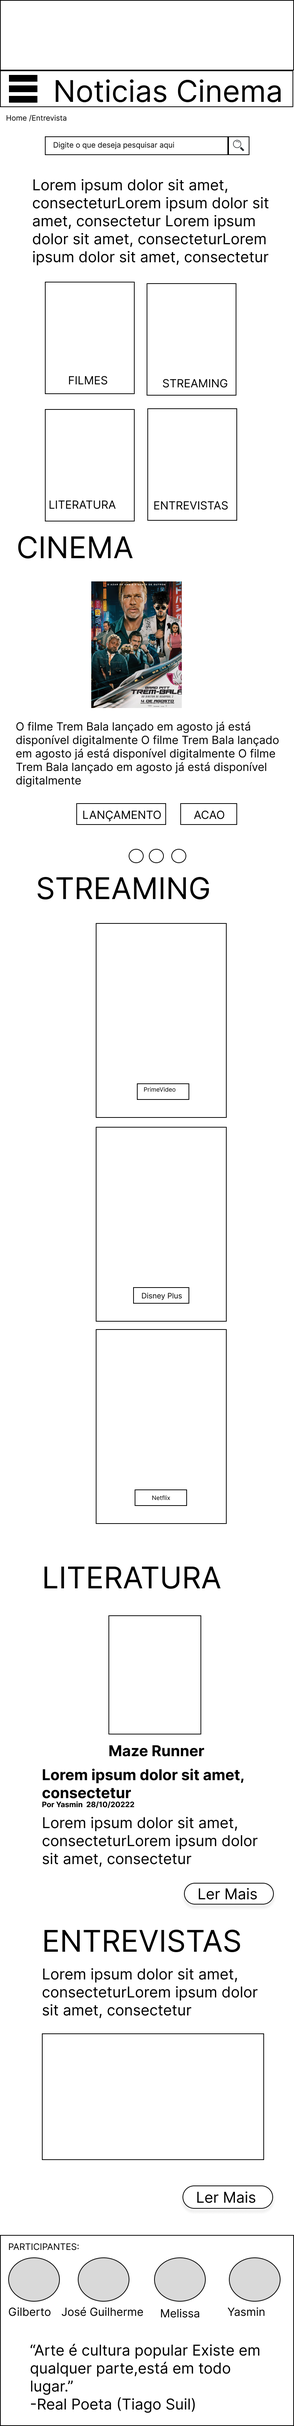
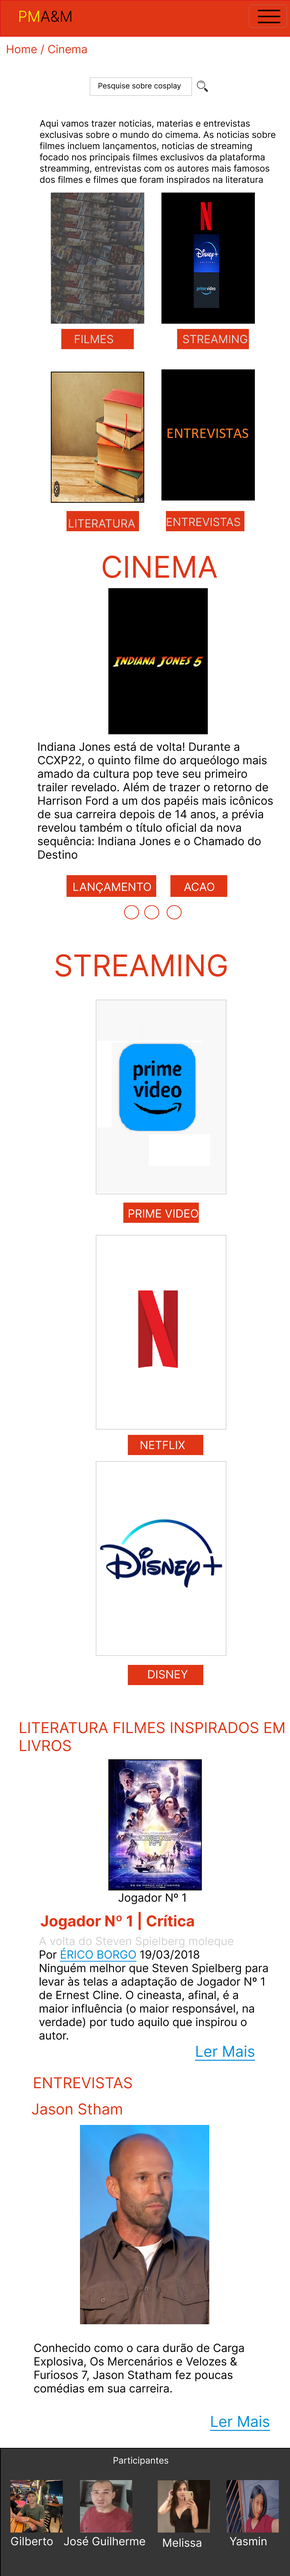
Adicionado novos wireframes

diff --git a/wireframes-html/celular.html b/wireframes-html/celular.html
@@ -9,58 +9,47 @@
 </head>
 <body>
     <div class="container">
-        "
     <div class="row">
-            <div class="col-4">
-                <figure>
-                    <img src='img/mobile/home-1.0.png'class="img-fluid"/>
-                    <figcaption>imagem</figcaption>
-                </figure>
-            </div>
+        <div class="col-4">
+            <figure>
+                <img src='img/mobile/home-1.0.png' class="img-fluid"/>
+                <figcaption>Home 1.0</figcaption>
+            </figure>
+        </div>
             <div class="col-4">
                 <figure>
                     <img src='img/mobile/cinema-2.1.png' class="img-fluid"/>
-                    <figcaption>imagem</figcaption>
+                    <figcaption>Cinema 2.1</figcaption>
                 </figure>
             </div>
             <div class="col-4">
                 <figure>
                     <img src='img/mobile/filme-2.1.1.png' class="img-fluid"/>
-                    <figcaption>imagem</figcaption>
+                    <figcaption>Filme 2.1.1</figcaption>
                 </figure>
             </div>
         </div>
-    
-"
     <div class="row">
+        <div class="col-4">
+            <figure>
+                <img src='img/mobile/streaming-2.1.2.png' class="img-fluid"/>
+                <figcaption>Streamming 2.1.2</figcaption>
+            </figure>
+        </div>
             <div class="col-4">
                 <figure>
-                    <img src='img/mobile/cinema-2.1.1.1.png'class="img-fluid"/>
-                    <figcaption>imagem</figcaption>
+                    <img src='img/mobile/literatura-2.1.3.png' class="img-fluid"/>
+                    <figcaption>Literatura 2.1.3</figcaption>
                 </figure>
             </div>
             <div class="col-4">
                 <figure>
-                    <img src='img/mobile/streaming-2.1.1.2.png' class="img-fluid"/>
-                    <figcaption>imagem</figcaption>
-                </figure>
-            </div>
-            <div class="col-4">
-                <figure>
-                    <img src='img/mobile/literatura-2.1.2.png' class="img-fluid"/>
-                    <figcaption>imagem</figcaption>
+                    <img src='img/mobile/entrevista-2.1.4.png'class="img-fluid"/>
+                    <figcaption>Entrevista 2.1.4</figcaption>
                 </figure>
             </div>
         </div>
-    
-"
     <div class="row">
-            <div class="col-4">
-                <figure>
-                    <img src='img/mobile/entrevista-2.1.3.png'class="img-fluid"/>
-                    <figcaption>imagem</figcaption>
-                </figure>
-            </div>
             <div class="col-4">
                 <figure>
                     <img src='img/mobile/hqs-2.2.png' class="img-fluid"/>

diff --git a/wireframes-html/tablet.html b/wireframes-html/tablet.html
@@ -10,6 +10,55 @@
 <body>
     <div class="container">
         <div class="row">
+            <div class="col-12">
+                <figure>
+                    <img src='img/tablet/home-1.0.png' class="img-fluid"/>
+                    <figcaption>Home 1.0</figcaption>
+                </figure>
+            </div>
+        </div>
+        <div class="row">
+            <div class="col-12">
+                <figure>
+                    <img src='img/tablet/cinema-2.1.png'class="img-fluid"/>
+                    <figcaption>Cinema 2.1</figcaption>
+                </figure>
+            </div>
+        </div>
+    <div class="row">
+            <div class="col-12">
+                <figure>
+                    <img src='img/tablet/filme-2.1.1.png'class="img-fluid"/>
+                    <figcaption>Filme 2.1.1</figcaption>
+                </figure>
+            </div>
+        </div>
+    <div class="row">
+            <div class="col-12">
+                <figure>
+                    <img src='img/tablet/streaming-2.1.1.2.png'class="img-fluid"/>
+                    <figcaption>Streamming 2.1.2</figcaption>
+                </figure>
+            </div>
+        </div>
+    <div class="row">
+            <div class="col-12">
+                <figure>
+                    <img src='img/desktop/literatura-2.1.3.png'class="img-fluid"/>
+                    <figcaption>Literatura 2.1.3</figcaption>
+                </figure>
+            </div>
+        </div>
+    <div class="row">
+            <div class="col-12">
+                <figure>
+                    <img src='img/desktop/entrevista-2.1.4.png'class="img-fluid"/>
+                    <figcaption>Entrevistas 2.1.4</figcaption>
+                </figure>
+            </div>
+        </div>
+    <div class="container">
+        <div class="row">
             <div class="col-8">
                 <figure>
                     <img src="img/tablet/grupo.png" class="img-fluid"/>

diff --git a/wireframes-html/desktop.html b/wireframes-html/desktop.html
@@ -12,6 +12,14 @@
         <div class="row">
             <div class="col-12">
                 <figure>
+                    <img src='img/desktop/home-1.0.png' class="img-fluid"/>
+                    <figcaption>Home 1.0</figcaption>
+                </figure>
+            </div>
+        </div>
+        <div class="row">
+            <div class="col-12">
+                <figure>
                     <img src='img/desktop/cinema-2.1.png'class="img-fluid"/>
                     <figcaption>Cinema 2.1</figcaption>
                 </figure>
